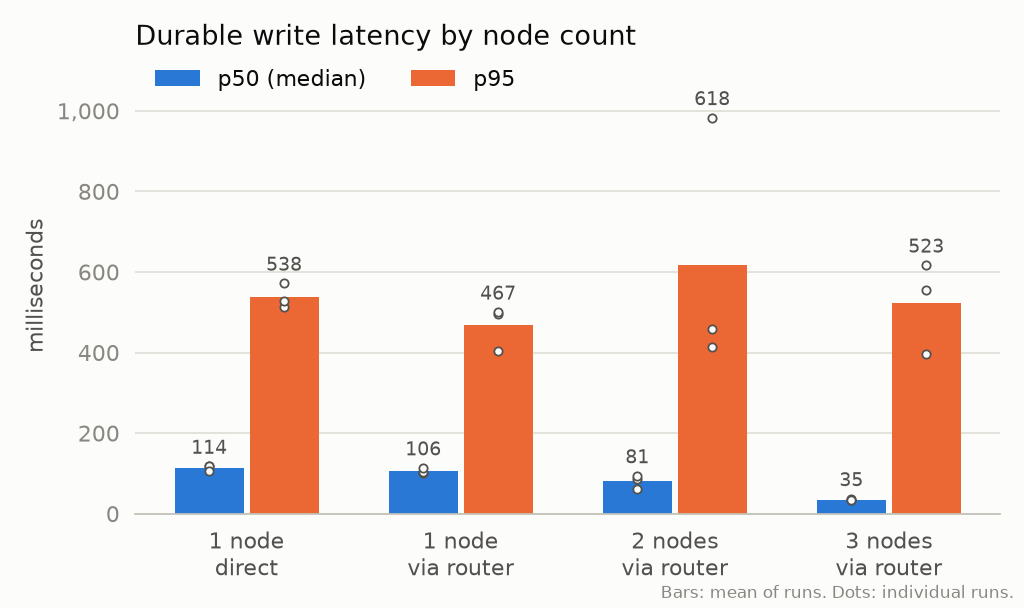
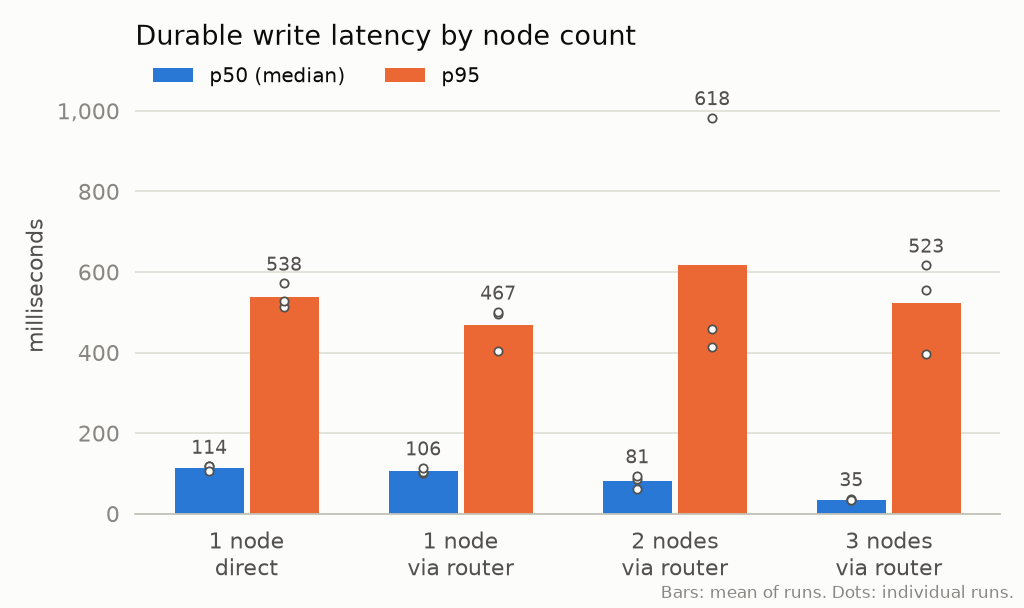
added aws benchmarks

Changed region(s): [[0.1562, 0.0938, 0.5, 0.1562]]

diff --git a/plot_results.py b/plot_results.py
@@ -4,7 +4,7 @@ Usage:
   python3 -m venv .venv && .venv/bin/pip install matplotlib    # once
   .venv/bin/python plot_results.py
 
-Reads   results/results-disk.csv and results/results-tmpfs.csv (from bench_scaling.sh)
+Reads   results/results-{disk,tmpfs}.csv (bench_scaling.sh) and results-aws.csv (aws/bench_aws.sh)
 Writes  results/*.png and results/summary.md
 Bars show the mean of the runs; dots show each individual run, so run-to-run
 noise is visible instead of hidden.
@@ -23,11 +23,12 @@ RESULTS = 'results'
 CONFIGS = ['direct', 'router-1', 'router-2', 'router-3']
 CONFIG_NAMES = {'direct': '1 node\ndirect', 'router-1': '1 node\nvia router',
                 'router-2': '2 nodes\nvia router', 'router-3': '3 nodes\nvia router'}
-STORAGE_NAMES = {'disk': 'Durable (disk)', 'tmpfs': 'In-memory (tmpfs)'}
+STORAGE_NAMES = {'disk': 'Laptop, durable (disk)', 'tmpfs': 'Laptop, in-memory (tmpfs)',
+                 'aws': 'AWS, durable (EBS)'}
 
-# Colors and ink from a colorblind-validated palette: series slots 1 and 2,
+# Colors and ink from a colorblind-validated palette: series slots 1 to 3,
 # text in neutral ink (never the series color), recessive grid and axes.
-SERIES = ['#2a78d6', '#eb6834']
+SERIES = ['#2a78d6', '#eb6834', '#1baf7a']
 INK, INK_2, MUTED = '#0b0b0b', '#52514e', '#898781'
 GRID, AXIS, SURFACE = '#e1e0d9', '#c3c2b7', '#fcfcfb'
 
@@ -58,9 +59,10 @@ def load(storage):
     return data
 
 
-def bars(ax, series, ylabel, fmt):
+def bars(ax, series, ylabel, fmt, colors=None):
     """Grouped bars: series = [(legend name, {config: [values per run]})].
     Mean as the bar, each run as a dot, the mean printed above the bar."""
+    colors = colors or SERIES
     n = len(series)
     width = 0.7 / n
     x = range(len(CONFIGS))
@@ -68,19 +70,19 @@ def bars(ax, series, ylabel, fmt):
     for i, (name, vals) in enumerate(series):
         offs = [xi + (i - (n - 1) / 2) * width for xi in x]
         means = [mean(vals[c]) if vals.get(c) else 0 for c in CONFIGS]
-        ax.bar(offs, means, width * 0.92, color=SERIES[i], label=name, zorder=2)
+        ax.bar(offs, means, width * 0.92, color=colors[i], label=name, zorder=2)
         for o, c, m in zip(offs, CONFIGS, means):
             runs = vals.get(c, [])
             ax.scatter([o] * len(runs), runs, s=14, color=SURFACE, edgecolor=INK_2,
                        linewidth=0.8, zorder=3)
             ax.text(o, max(runs + [m]) + top * 0.02, fmt(m), ha='center', va='bottom',
-                    fontsize=8.5, color=INK_2)
+                    fontsize=8.5 if n < 3 else 7.5, color=INK_2)
     ax.set_xticks(list(x), [CONFIG_NAMES[c] for c in CONFIGS])
     ax.set_ylabel(ylabel)
     ax.set_ylim(0, top * 1.15)
     ax.yaxis.set_major_formatter(matplotlib.ticker.FuncFormatter(lambda v, _: f'{v:,.0f}'))
     if n > 1:
-        ax.legend(loc='upper left', ncols=n, bbox_to_anchor=(0, 1.02))
+        ax.legend(loc="upper left", ncols=n, bbox_to_anchor=(0, 1.02), fontsize=9 if n < 3 else 8.5)
 
 
 def runs(data, phase, metric):
@@ -97,8 +99,41 @@ def save(fig, name):
     print('wrote', path)
 
 
+def speedup(data):
+    """Mean write throughput of router-N divided by router-1, for N = 1, 2, 3."""
+    base = mean(runs(data, 'set', 'throughput_ops')['router-1'])
+    return [mean(runs(data, 'set', 'throughput_ops')[f'router-{n}']) / base for n in (1, 2, 3)]
+
+
+def scaling_chart(disk, aws):
+    """Write speedup vs node count: AWS (accent), laptop (grey), ideal (dashed reference)."""
+    fig, ax = plt.subplots(figsize=(6.4, 3.8))
+    nodes = [1, 2, 3]
+    ax.plot(nodes, nodes, color=AXIS, linewidth=1.5, linestyle=(0, (4, 3)), zorder=1)
+    ax.text(3.06, 3, 'Ideal (3.0×)', va='center', fontsize=9, color=MUTED)
+    for data, color, name in ((disk, MUTED, 'Laptop'), (aws, SERIES[0], 'AWS')):
+        ys = speedup(data)
+        ax.plot(nodes, ys, color=color, linewidth=2, marker='o', markersize=7,
+                markeredgecolor=SURFACE, markeredgewidth=1.5, zorder=3)
+        ax.text(3.06, ys[-1], f'{name} ({ys[-1]:.1f}×)', va='center', fontsize=9,
+                color=INK, fontweight='bold' if name == 'AWS' else 'normal')
+    ax.set_xticks(nodes, ['1 node', '2 nodes', '3 nodes'])
+    ax.set_xlim(0.8, 3.75)
+    ax.set_ylim(0, 3.3)
+    ax.set_ylabel('write throughput vs 1 node (×)')
+    ax.set_title('On AWS, durable writes scale 2.8× with 3 nodes; on the laptop, 1.3×',
+                 loc='left', fontsize=11, color=INK)
+    fig.tight_layout()
+    fig.text(0.99, 0.01, 'All via the router; baseline = router with 1 node. Means of 3 runs.',
+             ha='right', va='bottom', fontsize=7.5, color=MUTED)
+    path = os.path.join(RESULTS, 'write_scaling_laptop_vs_aws.png')
+    fig.savefig(path, dpi=160)
+    plt.close(fig)
+    print('wrote', path)
+
+
 def main():
-    disk, tmpfs = load('disk'), load('tmpfs')
+    disk, tmpfs, aws = load('disk'), load('tmpfs'), load('aws')
 
     # 1. Headline: durable write throughput scales with node count.
     fig, ax = plt.subplots(figsize=(6.4, 3.8))
@@ -113,12 +148,14 @@ def main():
     ax.set_title('Durable write latency by node count', loc='left', fontsize=12, color=INK)
     save(fig, 'write_latency_disk.png')
 
-    # 3. Reads: flat in both storage modes (shared CPU is the limit).
-    fig, ax = plt.subplots(figsize=(6.4, 3.8))
-    bars(ax, [(STORAGE_NAMES['disk'], runs(disk, 'get', 'throughput_ops')),
-              (STORAGE_NAMES['tmpfs'], runs(tmpfs, 'get', 'throughput_ops'))],
-         'ops / second', lambda v: f'{v / 1000:.1f}k')
-    ax.set_title('Read throughput by node count', loc='left', fontsize=12, color=INK)
+    # 3. Reads: flat everywhere (laptop: shared CPU; AWS: the 2-vCPU client).
+    fig, ax = plt.subplots(figsize=(8.6, 4.2))
+    read_series = [(STORAGE_NAMES['disk'], runs(disk, 'get', 'throughput_ops')),
+                   (STORAGE_NAMES['tmpfs'], runs(tmpfs, 'get', 'throughput_ops'))]
+    if aws:
+        read_series.append((STORAGE_NAMES['aws'], runs(aws, 'get', 'throughput_ops')))
+    bars(ax, read_series, 'ops / second', lambda v: f'{v / 1000:.1f}k')
+    ax.set_title('Reads stay flat at 12–18k ops/s in every setup', loc='left', fontsize=12, color=INK)
     save(fig, 'read_throughput.png')
 
     # 4. In-memory writes: once the disk is gone, writes stop scaling too.
@@ -128,11 +165,31 @@ def main():
     ax.set_title('In-memory (tmpfs) write throughput by node count', loc='left', fontsize=12, color=INK)
     save(fig, 'write_throughput_tmpfs.png')
 
+    if aws:
+        # 5. AWS durable writes: each node has its own disk, so writes scale.
+        fig, ax = plt.subplots(figsize=(6.4, 3.8))
+        bars(ax, [('Writes', runs(aws, 'set', 'throughput_ops'))], 'ops / second',
+             lambda v: f'{v:,.0f}')
+        ax.set_title('AWS: durable writes grow from 154 to 436 ops/s with 3 nodes',
+                     loc='left', fontsize=12, color=INK)
+        save(fig, 'write_throughput_aws.png')
+
+        # 6. AWS durable write latency.
+        fig, ax = plt.subplots(figsize=(6.4, 3.8))
+        bars(ax, [('p50 (median)', runs(aws, 'set', 'p50_ms')), ('p95', runs(aws, 'set', 'p95_ms'))],
+             'milliseconds', lambda v: f'{v:,.0f}')
+        ax.set_title('AWS: median write latency falls from 288 to 55 ms', loc='left',
+                     fontsize=12, color=INK)
+        save(fig, 'write_latency_aws.png')
+
+        # 7. Headline comparison: speedup vs node count, laptop vs AWS vs ideal.
+        scaling_chart(disk, aws)
+
     # Summary table (means over runs) for the report.
     lines = ['| Storage | Config | Phase | Runs | Throughput (ops/s) | avg (ms) | p50 (ms) '
              '| p95 (ms) | p99 (ms) | Errors | Mismatches |',
              '|---|---|---|---|---|---|---|---|---|---|---|']
-    for storage, data in (('disk', disk), ('tmpfs', tmpfs)):
+    for storage, data in (('disk', disk), ('tmpfs', tmpfs), ('aws', aws)):
         for phase in ('set', 'get'):
             for c in CONFIGS:
                 rows = data.get((c, phase), [])

diff --git a/results/summary.md b/results/summary.md
@@ -16,3 +16,11 @@
 | tmpfs | router-1 | get | 3 | 12,890 | 4.9 | 4.2 | 10.9 | 18.8 | 0 | 0 |
 | tmpfs | router-2 | get | 3 | 13,031 | 4.9 | 4.2 | 10.6 | 19.8 | 0 | 0 |
 | tmpfs | router-3 | get | 3 | 11,840 | 5.7 | 4.4 | 12.1 | 27.9 | 0 | 0 |
+| aws | direct | set | 3 | 152 | 409.7 | 290.1 | 1231.4 | 1867.6 | 0 | 0 |
+| aws | router-1 | set | 3 | 154 | 407.7 | 288.2 | 1195.8 | 1925.4 | 0 | 0 |
+| aws | router-2 | set | 3 | 307 | 201.5 | 111.2 | 690.3 | 1144.7 | 0 | 0 |
+| aws | router-3 | set | 3 | 436 | 140.7 | 54.7 | 580.4 | 1015.1 | 0 | 0 |
+| aws | direct | get | 3 | 15,470 | 4.0 | 3.3 | 9.6 | 14.4 | 0 | 0 |
+| aws | router-1 | get | 3 | 12,884 | 4.9 | 4.3 | 10.2 | 14.4 | 0 | 0 |
+| aws | router-2 | get | 3 | 13,365 | 4.7 | 4.1 | 9.9 | 14.4 | 0 | 0 |
+| aws | router-3 | get | 3 | 13,142 | 4.8 | 4.2 | 10.1 | 14.6 | 0 | 0 |
